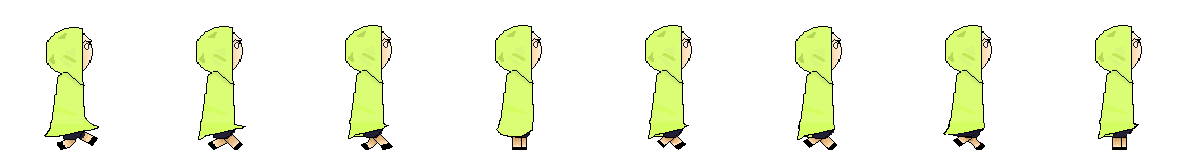
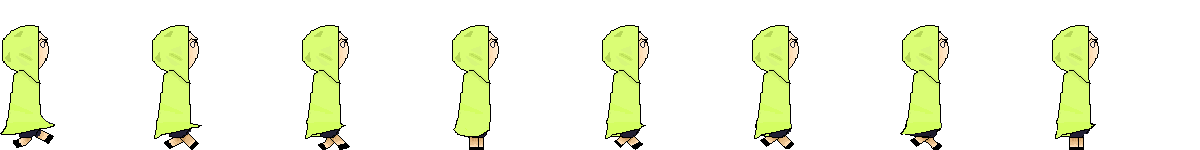
Fixed Hitboxes

diff --git a/core/src/com/mygdx/game/Game_Elements/Tiled.java b/core/src/com/mygdx/game/Game_Elements/Tiled.java
@@ -1,14 +1,9 @@
 package com.mygdx.game.Game_Elements;
 
-import com.badlogic.gdx.Gdx;
+
 import com.badlogic.gdx.graphics.Texture;
-import com.badlogic.gdx.scenes.scene2d.ui.Image;
-import com.badlogic.gdx.scenes.scene2d.utils.Drawable;
-import com.badlogic.gdx.utils.Align;
 import com.badlogic.gdx.utils.Array;
 
-
-import java.awt.*;
 import java.io.File;
 import java.io.FileNotFoundException;
 import java.io.IOException;
@@ -40,7 +35,7 @@ public class Tiled
         {
             String type = reader.nextLine();
             tile_info.put(type, import_csv_files(path + "/" + level, type));
-            this.image.put(type, nocuttingtoday(("Images/tiles" + "/" + type), type));
+            this.image.put(type, woodcutting(("Images/tiles" + "/" + type), type));
         }
         return tile_info;
     }
@@ -55,9 +50,9 @@ public class Tiled
         return game_map;
     }
 
-    public HashMap<String, Texture> nocuttingtoday(String path, String type) throws FileNotFoundException {
+    public HashMap<String, Texture> woodcutting(String path, String type) throws FileNotFoundException {
         Scanner reader = new Scanner (new File (path + "/tile"));
-        HashMap<String, Texture> tile = new HashMap<String, Texture>();
+        HashMap<String, Texture> tile = new HashMap<>();
         int i = 0;
         while (reader.hasNext())
         {
@@ -69,7 +64,7 @@ public class Tiled
         return tile;
     }
 
-    public Array<Object> import_map(String path, String level) throws IOException {
+    public void import_map(String path, String level) throws IOException {
         HashMap<String, Array<String[]>> info = read_tile_info(path, level);
         this.map = new Array<>();
 
@@ -84,29 +79,25 @@ public class Tiled
                 {
                     String num = info.get(type).get(i)[j];
                     if (!num.equals("-1")) {
+                        Object obj;
                         if (type.equals("Floors"))
                         {
-                            Object obj = getTile(Integer.parseInt(num), type, false);
-                            obj.setPosition(j,(size-1)-i);
-
-                            map.add(obj);
+                            obj = getTile(Integer.parseInt(num), type, false);
                         }
                         else
                         {
-                            Object obj = getTile(Integer.parseInt(num), type, true);
-                            obj.setPosition(j,(size-1)-i);
-                            map.add(obj);
+                            obj = getTile(Integer.parseInt(num), type, true);
                         }
+                        obj.setPosition(j,(size-1)-i);
+                        map.add(obj);
 
                     }
                 }
             }
         }
-
-        return map;
     }
 
-    public Object getTile(int tileId, String type, boolean collide) throws IOException
+    public Object getTile(int tileId, String type, boolean collide)
     {
 
         int Flipped180 = 0x60000000;

diff --git a/core/src/com/mygdx/game/Game_Elements/Player.java b/core/src/com/mygdx/game/Game_Elements/Player.java
@@ -10,14 +10,14 @@ import com.badlogic.gdx.scenes.scene2d.Actor;
 import com.badlogic.gdx.utils.Array;
 
 import java.io.IOException;
-import java.util.ArrayList;
-import java.util.HashMap;
+
 
 public class Player
 {
     public Vector2 position, positionChange;
     public Sprite player;
-    public float speed = 2000;
+    public int i = 0;
+    public int speed = 2000;
     public float move;
     String path;
     Rectangle player_rect;
@@ -29,17 +29,20 @@ public class Player
     public String state;
     public String type;
     public int[] size;
+    public int data;
+
 
 
 
     public Player(String path, String type) throws IOException
     {
         this.type = type;
-        this.size = new int[]{150, 150};
         this.path = path;
         this.loop = true;
-        animation = new animation(path, type);
+        this.animation = new animation(path, type);
+
         state = "Idle/Forward";
+        this.size = animation.anim_size.get(state);
         int mid = 885;
         int midy = 465;
         position = new Vector2(mid, midy);
@@ -48,6 +51,7 @@ public class Player
         // need to subtract the width and height divided by 2 to put player in middle
         player.setPosition(position.x, position.y);
         player_rect = new Rectangle(mid , midy, size[0], size[1]);
+        data = 0;
 
     }
 
@@ -55,8 +59,7 @@ public class Player
 
     public void move(float deltaTime)
     {
-
-        move = speed * deltaTime;
+        speed = 2000;
         boolean press = false;
         boolean diagonal = false;
         positionChange.x = positionChange.y = 0;
@@ -68,7 +71,8 @@ public class Player
             this.loop = true;
             diagonal = true;
             press = true;
-
+            data = -1;
+            i = 0;
         }
         if (Gdx.input.isKeyPressed(Input.Keys.D))
         {
@@ -77,7 +81,8 @@ public class Player
             this.loop = true;
             diagonal = true;
             press = true;
-
+            data = 1;
+            i = 0;
         }
         if (Gdx.input.isKeyPressed(Input.Keys.W))
         {
@@ -90,6 +95,7 @@ public class Player
                 positionChange.x = 0.71f * positionChange.x;
                 positionChange.y = 0.71f;
             }
+            i = 0;
         }
         if (Gdx.input.isKeyPressed(Input.Keys.S))
         {
@@ -102,12 +108,23 @@ public class Player
                 positionChange.x = 0.71f * positionChange.x;
                 positionChange.y = -0.71f;
             }
+            i = 0;
         }
 
         if (!press)
         {
             state = "Idle/Forward";
+            if (i == 0)
+            {
+                positionChange.x = data;
+                data = 0;
+                speed = 0;
+            }
+            i = 1;
         }
+        this.size = this.animation.anim_size.get(state);
+        player_rect.setSize(size[0], size[1]);
+        move = speed * deltaTime;
 
     }
 

diff --git a/core/src/com/mygdx/game/Game_Elements/World.java b/core/src/com/mygdx/game/Game_Elements/World.java
@@ -1,22 +1,15 @@
 package com.mygdx.game.Game_Elements;
 
 import com.badlogic.gdx.Gdx;
-import com.badlogic.gdx.files.FileHandle;
-import com.badlogic.gdx.graphics.Texture;
-import com.badlogic.gdx.graphics.g2d.Batch;
 import com.badlogic.gdx.graphics.g2d.SpriteBatch;
 import com.badlogic.gdx.graphics.Color;
 import com.badlogic.gdx.scenes.scene2d.Actor;
 import com.badlogic.gdx.scenes.scene2d.Stage;
-import com.badlogic.gdx.scenes.scene2d.ui.TextButton;
-import com.badlogic.gdx.utils.Array;
-import com.mygdx.game.CPTGame;
-import com.mygdx.game.Game_Elements.Tiled.*;
+
 
 import com.badlogic.gdx.utils.viewport.FitViewport;
 
 import java.io.IOException;
-import java.util.ArrayList;
 
 public class World extends Stage
 {
@@ -28,13 +21,13 @@ public class World extends Stage
     public int[] scroll;
     public float[] true_scroll;
 
-    TextButton newButton;
+
 
     public World(String path, String level) throws IOException
     {
         super(new FitViewport(1920,1080));
-
-        player1 = new Player ("Images/Players/", "Player1");
+        String playerPath = "Images/Players/";
+        player1 = new Player (playerPath, "Player2");
 
         colorList = new Color[]{Color.BLACK,Color.GREEN,Color.BLUE,Color.YELLOW,Color.ROYAL,Color.ORANGE,Color.CORAL,Color.RED};
         map(path, level);
@@ -97,7 +90,6 @@ public class World extends Stage
         player1.collision_detectionx(getActors());
         player1.isCollidingY = false;
         player1.collision_detectiony(getActors());
-        // color change loop is here
-    }
 
+    }
 }

diff --git a/core/src/com/mygdx/game/Game_Elements/animation.java b/core/src/com/mygdx/game/Game_Elements/animation.java
@@ -16,6 +16,7 @@ public class animation {
     HashMap<String, Animation<TextureRegion>> animation;
     SpriteBatch spriteBatch;
     Texture animSheet;
+    HashMap<String, int[]> anim_size;
     float stateTime;
     public animation(String path, String type) throws IOException
     {
@@ -25,12 +26,15 @@ public class animation {
 
     public HashMap<String, float[]> set_up_states(String path, String type) throws IOException {
         HashMap<String, float[]> anim_info = new HashMap<>();
+        this.anim_size = new HashMap<>();
         Scanner reader = new Scanner(new File(String.format("%s%s/animation", path, type)));
         while (reader.hasNext()) {
             String state = reader.next();
             float duration = reader.nextInt();
             float length = reader.nextFloat();
+            int[] size = new int[]{reader.nextInt(), reader.nextInt()};
             float[] info = {duration, length};
+            anim_size.put(state, size);
             anim_info.put(state, info);
         }
         return anim_info;
